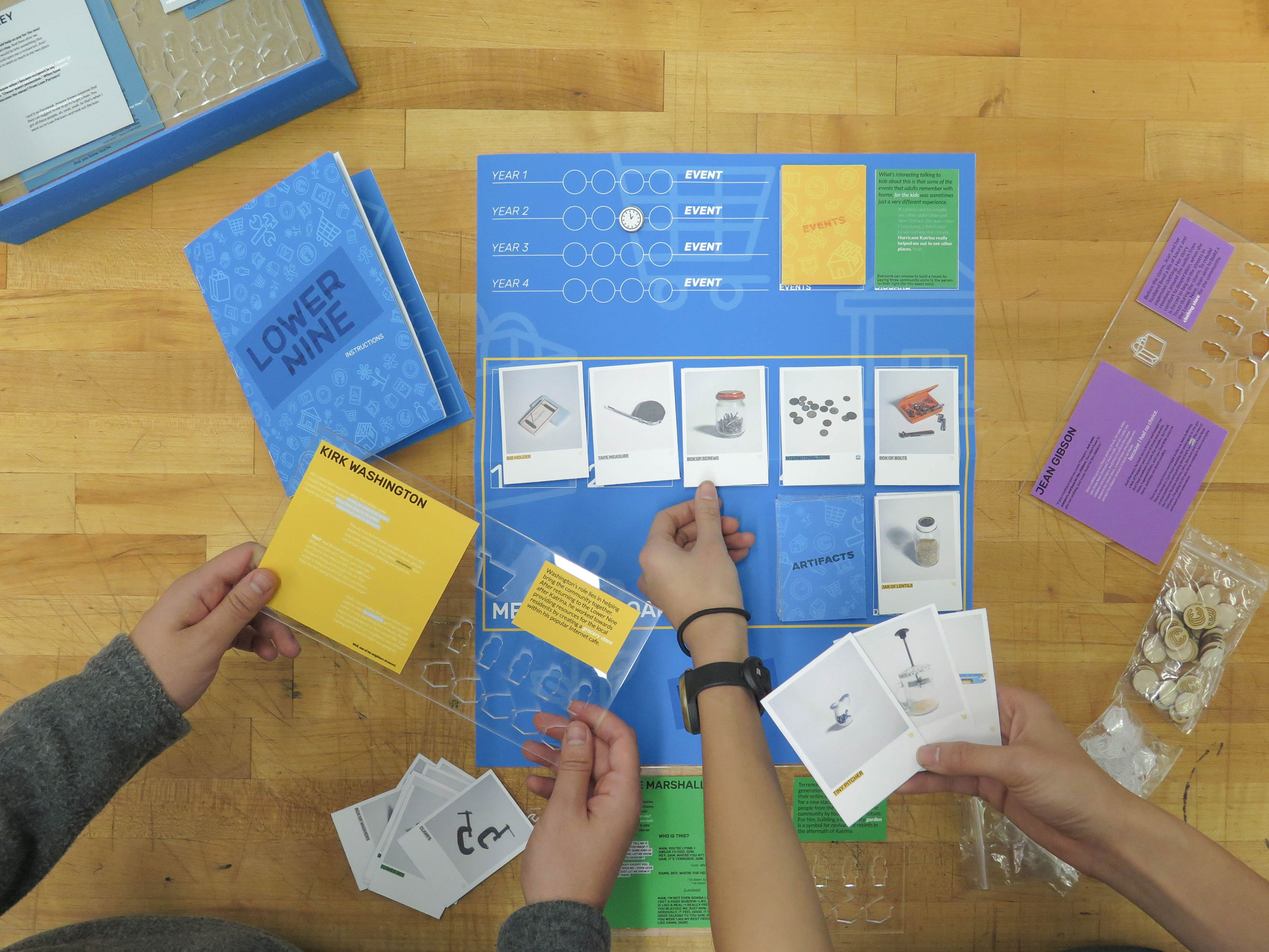
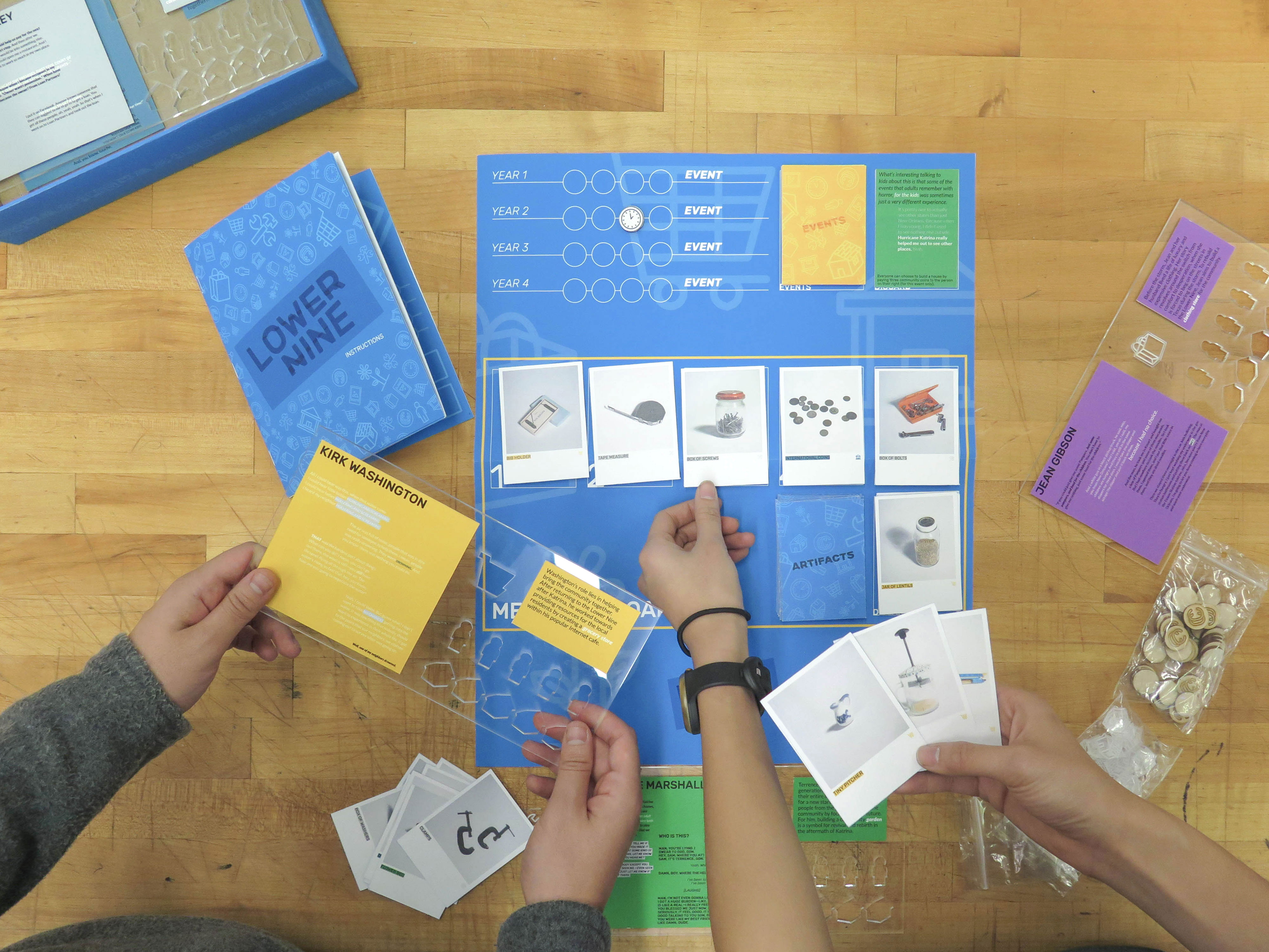
fixed thumbnails

Changed region(s): [[0.1875, 0.465, 0.375, 0.713]]

diff --git a/index.html b/index.html
@@ -49,13 +49,13 @@
         
         <li>
             <a href="paintthepavement.html">
-                <img src="paintthepavement/frontcover.jpg" id="thumbnail">
+                <img src="paintthepavement/spread2.jpg" id="thumbnail">
             </a>
         </li>
         
         <li>
             <a href="lowernine.html">
-                <img src="lowernine/gameplay.jpg" id="thumbnail">
+                <img src="lowernine/lowerninethumbnail.jpg" id="thumbnail">
             </a> 
         </li>
         
